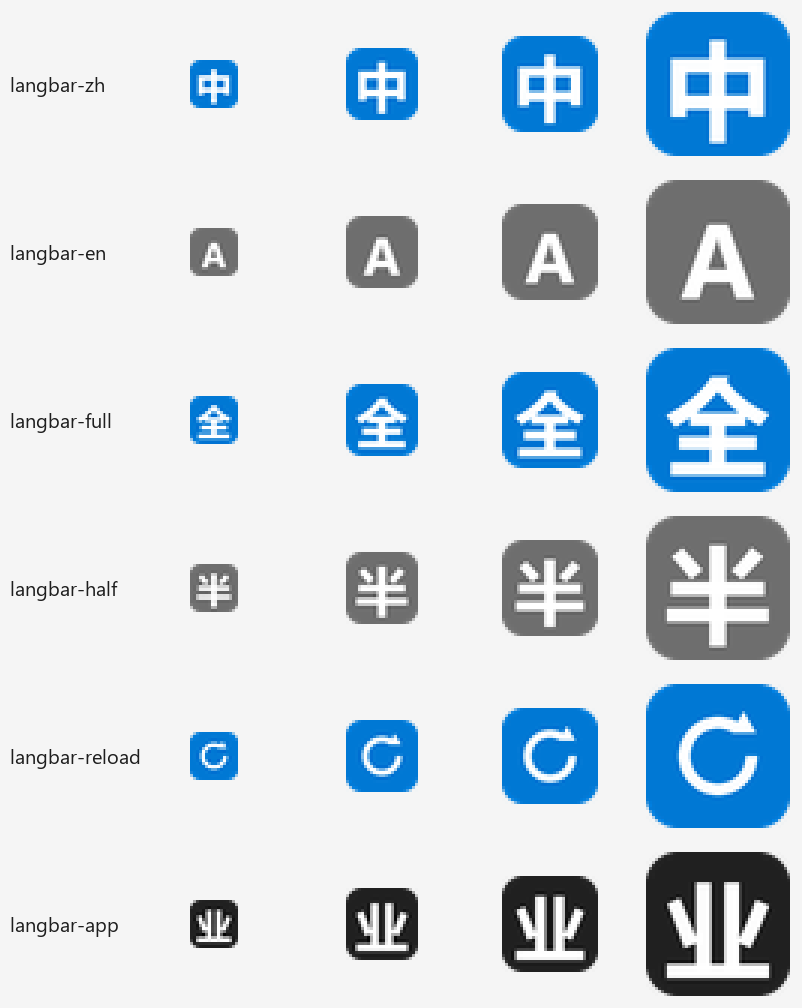
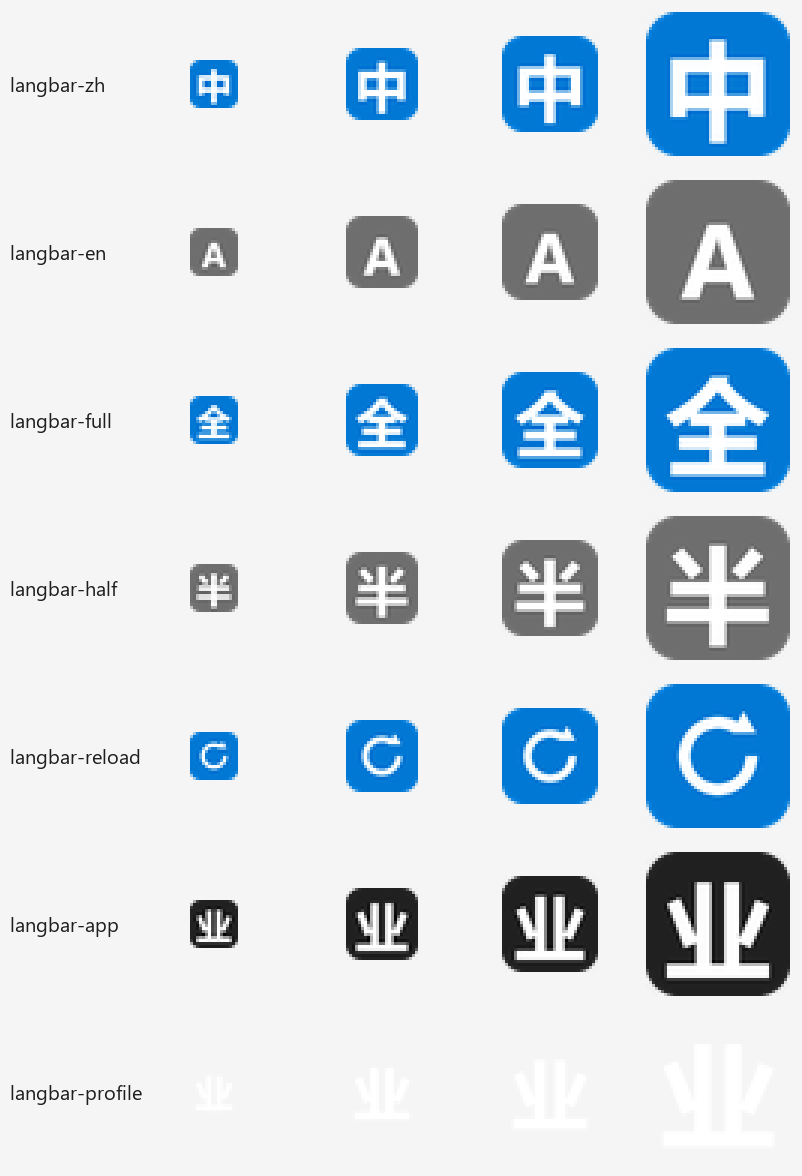
fix(langbar): 系统语言指示器改用纯字形图标
问题：
任务栏/语言栏里的输入法指示器显示成「近黑方块 + 白『业』」，在一排系统图标
中间显得像没渲染出来的残块。原因是 TIP 的 IDI_WEASEL 复用了应用自己的图标
（圆角方块 + 深底），而系统画的指示器是直接把这张图标摆到一排系统图标中间
—— 微软拼音的「拼」用的就是纯字形。

改动：
- scripts/gen-langbar-icons.py 新增 _plain_glyph()：透明底 + 白色字形，
  生成 assets/langbar/langbar-profile.ico（8 种分辨率，与其它图标同规格）。
- tip/weasel-tsf.rc 把 IDI_WEASEL 指向新图标。应用自己的图标
  （托盘 / 标题栏，src/weasel-app.rc）保持圆角方块不变 —— 那是应用的品牌，
  不该为了迁就系统指示器而改掉。
- scripts/verify-langbar-icons.ps1 新增：从 TIP DLL 的资源段里把图标取出来
  真正渲染一遍，断言「能画出来」，并比较 TIP 指示器与 exe 应用图标的像素
  覆盖率（TIP 52.4% 纯字形 / exe 98.4% 带底方块）。
- scripts/run-selfchecks.ps1 把 langbar-icons 纳入自检套件。

WHY：
「资源存在」不等于「画得出来」。图标编译进 DLL 时 rc.exe 找不到文件会静默
跳过，编译链接全绿而功能是坏的；就算编进去了，资源类型、ID 是不是数值
（未定义的标识符会变成命名资源，Windows 选应用图标时只认数值 ID 最小
的那个）也都会让系统拿不到。所以断言必须真的把位图画出来看覆盖率。

验证：
- scripts/verify-langbar-icons.ps1 通过：IDI_ZH/EN/FULL_SHAPE/HALF_SHAPE/
  RELOAD 五个图标 1008/1024 可见像素，IDI_WEASEL 537/1024。
- 完整自检套件 scripts/run-selfchecks.ps1 全绿（退出码 0）。

diff --git a/scripts/gen-langbar-icons.py b/scripts/gen-langbar-icons.py
@@ -19,6 +19,16 @@
     langbar-reload.ico  IDI_RELOAD      重新加载：强调蓝 + 白色循环箭头（矢量绘制）
     langbar-app.ico     IDI_WEASEL      应用图标：中性深底 + 白「业」（沿用上游标记字形）
 
+另外还生成一张**纯字形**的图标：
+
+    langbar-profile.ico IDI_WEASEL      系统语言指示器：透明底 + 白「业」（TIP 侧用）
+
+    langbar-app.ico 与 langbar-profile.ico 字形相同、底不同：
+    前者是**应用自己的**图标（托盘、窗口标题栏）—— 圆角方块 + 深底，
+    在浅色任务栏上也看得见；后者是**系统画的**语言指示器 ——
+    放在一排系统图标中间，用纯字形才不显得像个没渲染出来的黑块
+    （微软拼音的「拼」就是纯字形）。
+
 每张都带 16/20/24/32/40/48/64/256 八种分辨率 —— 语言栏实际用的是
 `SM_CXSMICON`（16），但资源管理器大图标视图、任务栏缩放、登录界面都会用到更大尺寸。
 
@@ -110,6 +120,25 @@ def _reload_tile(color):
     return img
 
 
+def _plain_glyph(ch, font_path, scale=0.80, offset_y=0.0):
+    """**纯字形**：透明底 + 白色字形，不画圆角方块。
+
+    给「系统语言指示器」用 —— 任务栏里那个输入法图标是 Windows 自己画的，
+    放在一排系统图标中间。其它输入法（微软拼音的「拼」）用的都是纯字形，
+    带底的方块在那里会显得像个没渲染出来的黑块（用户 2026-11-22 的反馈
+    就是这个：托盘里只有一个近黑方块 + 白「业」）。
+
+    应用自己的图标（托盘、窗口标题栏）仍然是圆角方块 —— 那是应用的品牌，
+    不该为了迁就系统指示器而改掉。
+    """
+    img = Image.new("RGBA", (BASE, BASE), (0, 0, 0, 0))
+    d = ImageDraw.Draw(img)
+    font = _font(font_path, int(BASE * scale))
+    d.text((BASE / 2, BASE / 2 + BASE * offset_y), ch, font=font,
+           fill=WHITE + (255,), anchor="mm")
+    return img
+
+
 def _save_ico(img, name):
     os.makedirs(OUT_DIR, exist_ok=True)
     path = os.path.join(OUT_DIR, name)
@@ -127,6 +156,9 @@ def build():
     outputs.append(_save_ico(_glyph_tile("半", NEUTRAL, FONT_CJK_BOLD), "langbar-half.ico"))
     outputs.append(_save_ico(_reload_tile(ACCENT), "langbar-reload.ico"))
     outputs.append(_save_ico(_glyph_tile("业", CHARCOAL, FONT_CJK_BOLD), "langbar-app.ico"))
+    # 系统语言指示器用的纯字形「业」（TIP 的 IDI_WEASEL → 注册表的 profile 图标）。
+    # 应用的托盘/标题栏图标仍然用 langbar-app.ico（圆角方块 + 深底）。
+    outputs.append(_save_ico(_plain_glyph("业", FONT_CJK_BOLD), "langbar-profile.ico"))
 
     for p in outputs:
         print("wrote", os.path.relpath(p, REPO))
@@ -140,7 +172,7 @@ def preview():
     """
     out = os.path.join(OUT_DIR, "_preview.png")
     names = ["langbar-zh", "langbar-en", "langbar-full",
-             "langbar-half", "langbar-reload", "langbar-app"]
+             "langbar-half", "langbar-reload", "langbar-app", "langbar-profile"]
     zoom = 3
     cell = 56 * zoom
     label_w = 130
